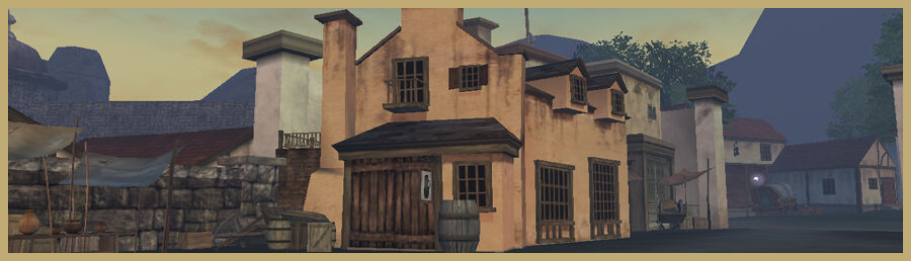
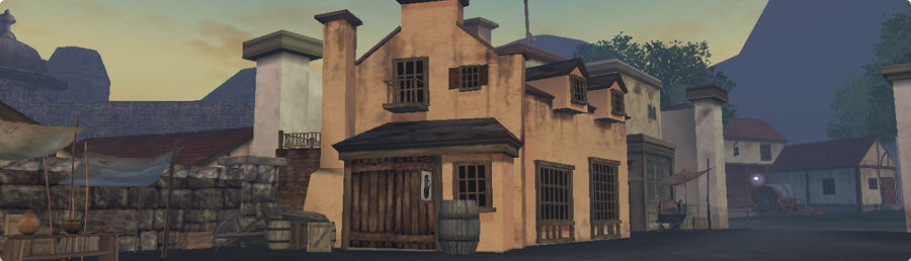
Addin Main Hangers component

Changed region(s): [[0.0, 0.0, 1.0, 1.0]]

diff --git a/components/molecules/Carousel.tsx b/components/molecules/Carousel.tsx
@@ -16,9 +16,8 @@ const Carousel : FC<{
   });
 
   return (
-    <div id={id} className="carousel slide relative
-      bg-carousel bg-cover w-[911px] h-[261px]"
-    data-bs-ride="carousel">
+    <div id={id} className="carousel slide relative bg-cover"
+      data-bs-ride="carousel">
       <div className="carousel-indicators absolute right-0 bottom-0
          left-0 flex justify-center p-0 mb-4">
         <button
@@ -29,7 +28,7 @@ const Carousel : FC<{
           aria-current="true"
           aria-label="Slide 1" >
         </button>
-        <button
+        {/* <button
           type="button"
           data-bs-target={`#${id}`}
           data-bs-slide-to="1"
@@ -52,80 +51,21 @@ const Carousel : FC<{
           data-bs-target={`#${id}`}
           data-bs-slide-to="4"
           aria-label="Slide 5" >
-        </button>
+        </button> */}
       </div>
-      <div className="carousel-inner relative w-full overflow-hidden">
-        <div className="carousel-item active relative float-left w-full">
-          <div className="carousel-caption hidden md:block
-              text-center">
-            <h1 className="text-2xl text-white">{title}
-              <span className='text-yellow-600 text-xl block mb-5'>
+      <div className="carousel-inner relative overflow-hidden">
+        <div className="w-full bg-carousel border-8 border-[#C0AB75]
+        carousel-item active  float-left pb-12
+        shadow-[inset_0px_4px_62px_rgba(192,_171,_117,_0.25)]">
+          <div className=" text-center">
+            <h1 className="text-2xl text-white mt-4">{title}
+              <span className='text-yellow-600 text-xl block'>
                 Notorious Pirate!</span></h1>
             <p className='text-white text-center text-base font-normal'>
               Discover the true meaning of notoriety in the<br/>
                 world’s first upcoming Pirate themed Metaverse</p>
             <button className='text-black bg-white text-sm font-normal
-                   py-1 px-4 border rounded mt-5'>
-                  Learn More...
-            </button>
-          </div>
-        </div>
-        <div className="carousel-item  relative float-left w-full">
-          <div className="carousel-caption hidden md:block
-              text-center">
-            <h1 className="text-2xl text-white">{title}
-              <span className='text-yellow-600 text-xl block mb-5'>
-                Notorious Pirate!</span></h1>
-            <p className='text-white text-center text-base font-normal'>
-            Discover the true meaning of notoriety in the<br/>
-                world’s first upcoming Pirate themed Metaverse</p>
-            <button className='text-black bg-white text-sm font-normal
-                   py-1 px-4 border rounded mt-5'>
-                  Learn More...
-            </button>
-          </div>
-        </div>
-        <div className="carousel-item  relative float-left w-full">
-          <div className="carousel-caption hidden md:block
-              text-center">
-            <h1 className="text-2xl text-white">{title}
-              <span className='text-yellow-600 text-xl block mb-5'>
-                Notorious Pirate!</span></h1>
-            <p className='text-white text-center text-base font-normal'>
-            Discover the true meaning of notoriety in the<br/>
-                world’s first upcoming Pirate themed Metaverse</p>
-            <button className='text-black bg-white text-sm font-normal
-                   py-1 px-4 border rounded mt-5'>
-                  Learn More...
-            </button>
-          </div>
-        </div>
-        <div className="carousel-item  relative float-left w-full">
-          <div className="carousel-caption hidden md:block
-              text-center">
-            <h1 className="text-2xl text-white">{title}
-              <span className='text-yellow-600 text-xl block mb-5'>
-                Notorious Pirate!</span></h1>
-            <p className='text-white text-center text-base font-normal'>
-            Discover the true meaning of notoriety in the<br/>
-                world’s first upcoming Pirate themed Metaverse</p>
-            <button className='text-black bg-white text-sm font-normal
-                   py-1 px-4 border rounded mt-5'>
-                  Learn More...
-            </button>
-          </div>
-        </div>
-        <div className="carousel-item relative float-left w-full">
-          <div className="carousel-caption hidden  md:block
-              text-center">
-            <h1 className="text-2xl text-white">{title}
-              <span className='text-yellow-600 text-xl block mb-5'>
-                Notorious Pirate!</span></h1>
-            <p className='text-white text-center text-base font-normal'>
-              Discover the true meaning of notoriety in the<br/>
-                world’s first upcoming Pirate themed Metaverse</p>
-            <button className='text-black bg-white text-sm font-normal
-                   py-1 px-4 border rounded mt-5'>
+                   py-1 px-4 border rounded mt-1'>
                   Learn More...
             </button>
           </div>
@@ -134,7 +74,8 @@ const Carousel : FC<{
       <button
         className="carousel-control-prev absolute top-0 bottom-0 flex
          items-center justify-center p-0 text-center border-0 hover:outline-none
-          hover:no-underline focus:outline-none focus:no-underline left-0"
+          hover:no-underline focus:outline-none focus:no-underline
+          left-0"
         type="button"
         data-bs-target={`#${id}`}
         data-bs-slide="prev"
@@ -148,7 +89,8 @@ const Carousel : FC<{
       <button
         className="carousel-control-next absolute top-0 bottom-0 flex
          items-center justify-center p-0 text-center border-0 hover:outline-none
-          hover:no-underline focus:outline-none focus:no-underline right-0"
+          hover:no-underline focus:outline-none focus:no-underline
+          right-0"
         type="button"
         data-bs-target={`#${id}`}
         data-bs-slide="next"

diff --git a/components/organisms/MainHangers.tsx b/components/organisms/MainHangers.tsx
@@ -1,0 +1,108 @@
+import Image from 'next/image';
+import Card from '../molecules/Card';
+import Carousel from '../molecules/Carousel';
+import PirateMoon from '../assets/images/piratesmoon.png';
+import Ocean from '../assets/images/d.png';
+import Divider from '../atoms/Divider';
+
+const MainHangers = () => {
+  return (
+    <div className='bg-black'>
+      <div className='bg-main bg-no-repeat bg-cover
+        border-b-[5px] border-[#8F8F8F]'>
+        <div
+          className='container mx-auto grid grid-cols-[1fr_2fr] gap-28'
+        >
+          <div className='mb-24'>
+            <Card>
+              <div className='flex flex-col align-center justify-center p-12'>
+                <h1 className='font-semibold text-center text-3xl text-white
+                  mb-4 truncate'>
+                Welcome to <div className='text-3xl
+                text-yellow-500 truncate'> Notorious Pirates Club</div></h1>
+                <div className='rounded border-4 border-[#C0AB75]'>
+                  <Image
+                    src={PirateMoon}
+                    layout='responsive'
+                    alt="Pirate image"
+                  />
+                </div>
+              </div>
+            </Card>
+            <Card>
+              <div className='flex flex-col align-center justify-center p-12'>
+                <div className='bg-[#202020]
+                  rounded border-4 border-[#C0AB75]'>
+                  <h1 className='font-semibold text-center
+                    text-3xl text-white p-4'>
+                    <span>
+                        Join
+                      <span className='text-yellow-500 mx-2'>4,000+</span>
+                        other
+                    </span>
+                    <div>notorious pirates</div>
+                    <span className='text-yellow-500 mx-2'>on</span>
+                    <span className='text-blue-400 mx-1'>Discord!</span>
+                  </h1>
+                  <Image
+                    src={Ocean}
+                    layout='responsive'
+                    alt="Pirate image"
+                  />
+                </div>
+              </div>
+            </Card>
+          </div>
+          <div>
+            <Card>
+              <div className='flex flex-col align-center justify-center p-12'>
+                <Carousel id="test" title="Hello friends" />
+                <Divider />
+                <div className='text-center'>
+                  <h1 className='font-semibold text-center text-3xl text-white
+                  truncate'>
+                      Find out what it means to become a
+                    <div className='text-3xl
+                text-yellow-500 truncate'>Notorious Pirate!</div>
+                  </h1>
+                  <div className='text-white text-xl'>
+                      January 5th, 2021 at 2:30pm
+                  </div>
+                  <div className='text-white text-lg px-48 mb-4'>
+                      Discover the true meaning of notoriety in the
+                      world’s first upcoming Pirate themed Metaverse</div>
+                  <button className='text-black bg-white text-sm font-normal
+                   py-1 px-4 border rounded mt-1'>
+                  Learn More...
+                  </button>
+                </div>
+                <Divider />
+                <div className='text-center'>
+                  <h1 className='font-semibold text-center text-3xl text-white
+                  truncate'>
+                      Find out what it means to become a
+                    <div className='text-3xl
+                text-yellow-500 truncate'>Notorious Pirate!</div>
+                  </h1>
+                  <div className='text-white text-xl'>
+                      January 5th, 2021 at 2:30pm
+                  </div>
+                  <div className='text-white text-lg px-48 mb-4'>
+                      Discover the true meaning of notoriety in the
+                      world’s first upcoming Pirate themed Metaverse</div>
+                  <button className='text-black bg-white text-sm font-normal
+                   py-1 px-4 border rounded mt-1'>
+                  Learn More...
+                  </button>
+                </div>
+                <Divider />
+              </div>
+            </Card>
+          </div>
+        </div>
+      </div>
+    </div>
+  );
+};
+
+export default MainHangers;

diff --git a/components/atoms/Hangers.tsx b/components/atoms/Hangers.tsx
@@ -7,12 +7,12 @@ import Image from 'next/image';
 const Hanger = () => {
   return (
     <div className='flex justify-between h-16'>
-      <div className='relative -left-16'>
+      <div className='relative -left-16 z-10'>
         <Image src={HangerRight}
           alt="Hanger Right" className='left-0 z-[-1]
         relative -left-24'/>
       </div>
-      <div className='relative -right-16'>
+      <div className='relative -right-16 z-10'>
         <Image src={HangerLeft}
           alt="Hanger Left" className='right-0 z-[-1]'/>
       </div>

diff --git a/components/organisms/MainPosters.tsx b/components/organisms/MainPosters.tsx
@@ -7,9 +7,9 @@ import twitterwidget from '../assets/images/twitterwidget.png';
 
 const MainPosters = () => {
   return (
-    <div className='pb-16 relative'>
+    <div className='pb-16 relative border-b-[5px] border-[#8F8F8F]'>
       <div className="container mx-auto grid grid-flow-col gap-40
-      grid-cols-[repeat(2,_minmax(0,_1fr))]">
+      grid-cols-[repeat(2,_minmax(0,_1fr))] mb-24">
         <Card>
           <div className='pb-5 flex flex-col flex-wrap'>
             <div className='px-10 mx-5 mb-28 max-h-[43.75rem] mt-10

diff --git a/tailwind.config.js b/tailwind.config.js
@@ -14,6 +14,7 @@ module.exports = {
     extend: {
       backgroundImage: (theme) => ({
         nav: 'url(\'../components/assets/images/bg-image.png\')',
+        main: 'url(\'../components/assets/images/background-main.png\')',
         card: 'url(\'../components/assets/images/wood.png\')',
         carousel: 'url(\'../components/assets/images/carousel-bg.png\')',
         sidenav: 'url(\'../components/assets/images/sidenav-bg.png\')',

diff --git a/components/organisms/Header.tsx b/components/organisms/Header.tsx
@@ -7,7 +7,8 @@ import Styles from '../../styles/Home.module.scss';
 const Header = () => {
   return (
     <header className={Styles.divider}>
-      <div className=" bg-nav bg-cover h-[89px]">
+      <div className=" bg-nav bg-cover
+      border-b-[5px] border-[#8F8F8F]">
         <nav className='container mx-auto flex items-center flex-wrap'>
           <Logo />
           <HeaderLinks />

diff --git a/components/molecules/Card.tsx b/components/molecules/Card.tsx
@@ -6,7 +6,7 @@ const Card: FC<{}> = ({children}) => {
   return (
     <div className='z-20'>
       <Hangers />
-      <div className='bg-card bg-cover rounded-xl top-16'>
+      <div className='relative top-0 z-20 bg-card bg-cover rounded-xl top-16'>
         {children}
       </div>
     </div>

diff --git a/components/templates/Main.tsx b/components/templates/Main.tsx
@@ -1,6 +1,12 @@
+
+import MainHangers from '../organisms/MainHangers';
+import MainPosters from '../organisms/MainPosters';
+
 const Main = () => {
   return (
     <>
+      <MainHangers />
+      <MainPosters />
     </>
   );
 };

diff --git a/styles/globals.scss b/styles/globals.scss
@@ -8,6 +8,7 @@ body {
   padding: 0;
   margin: 0;
   font-family: 'Rosario', sans-serif;
+  text-shadow: 0px 4px 4px rgba(0, 0, 0, 0.25), 0px 4px 4px rgba(0, 0, 0, 0.25);
 }
 
 a {

diff --git a/components/atoms/Divider.tsx b/components/atoms/Divider.tsx
@@ -1,0 +1,8 @@
+const Divider = () => {
+  return (
+    <div className='border-t-4 mx-32 rounded
+        border-[#C4C4C4] my-8'></div>
+  );
+};
+
+export default Divider;
